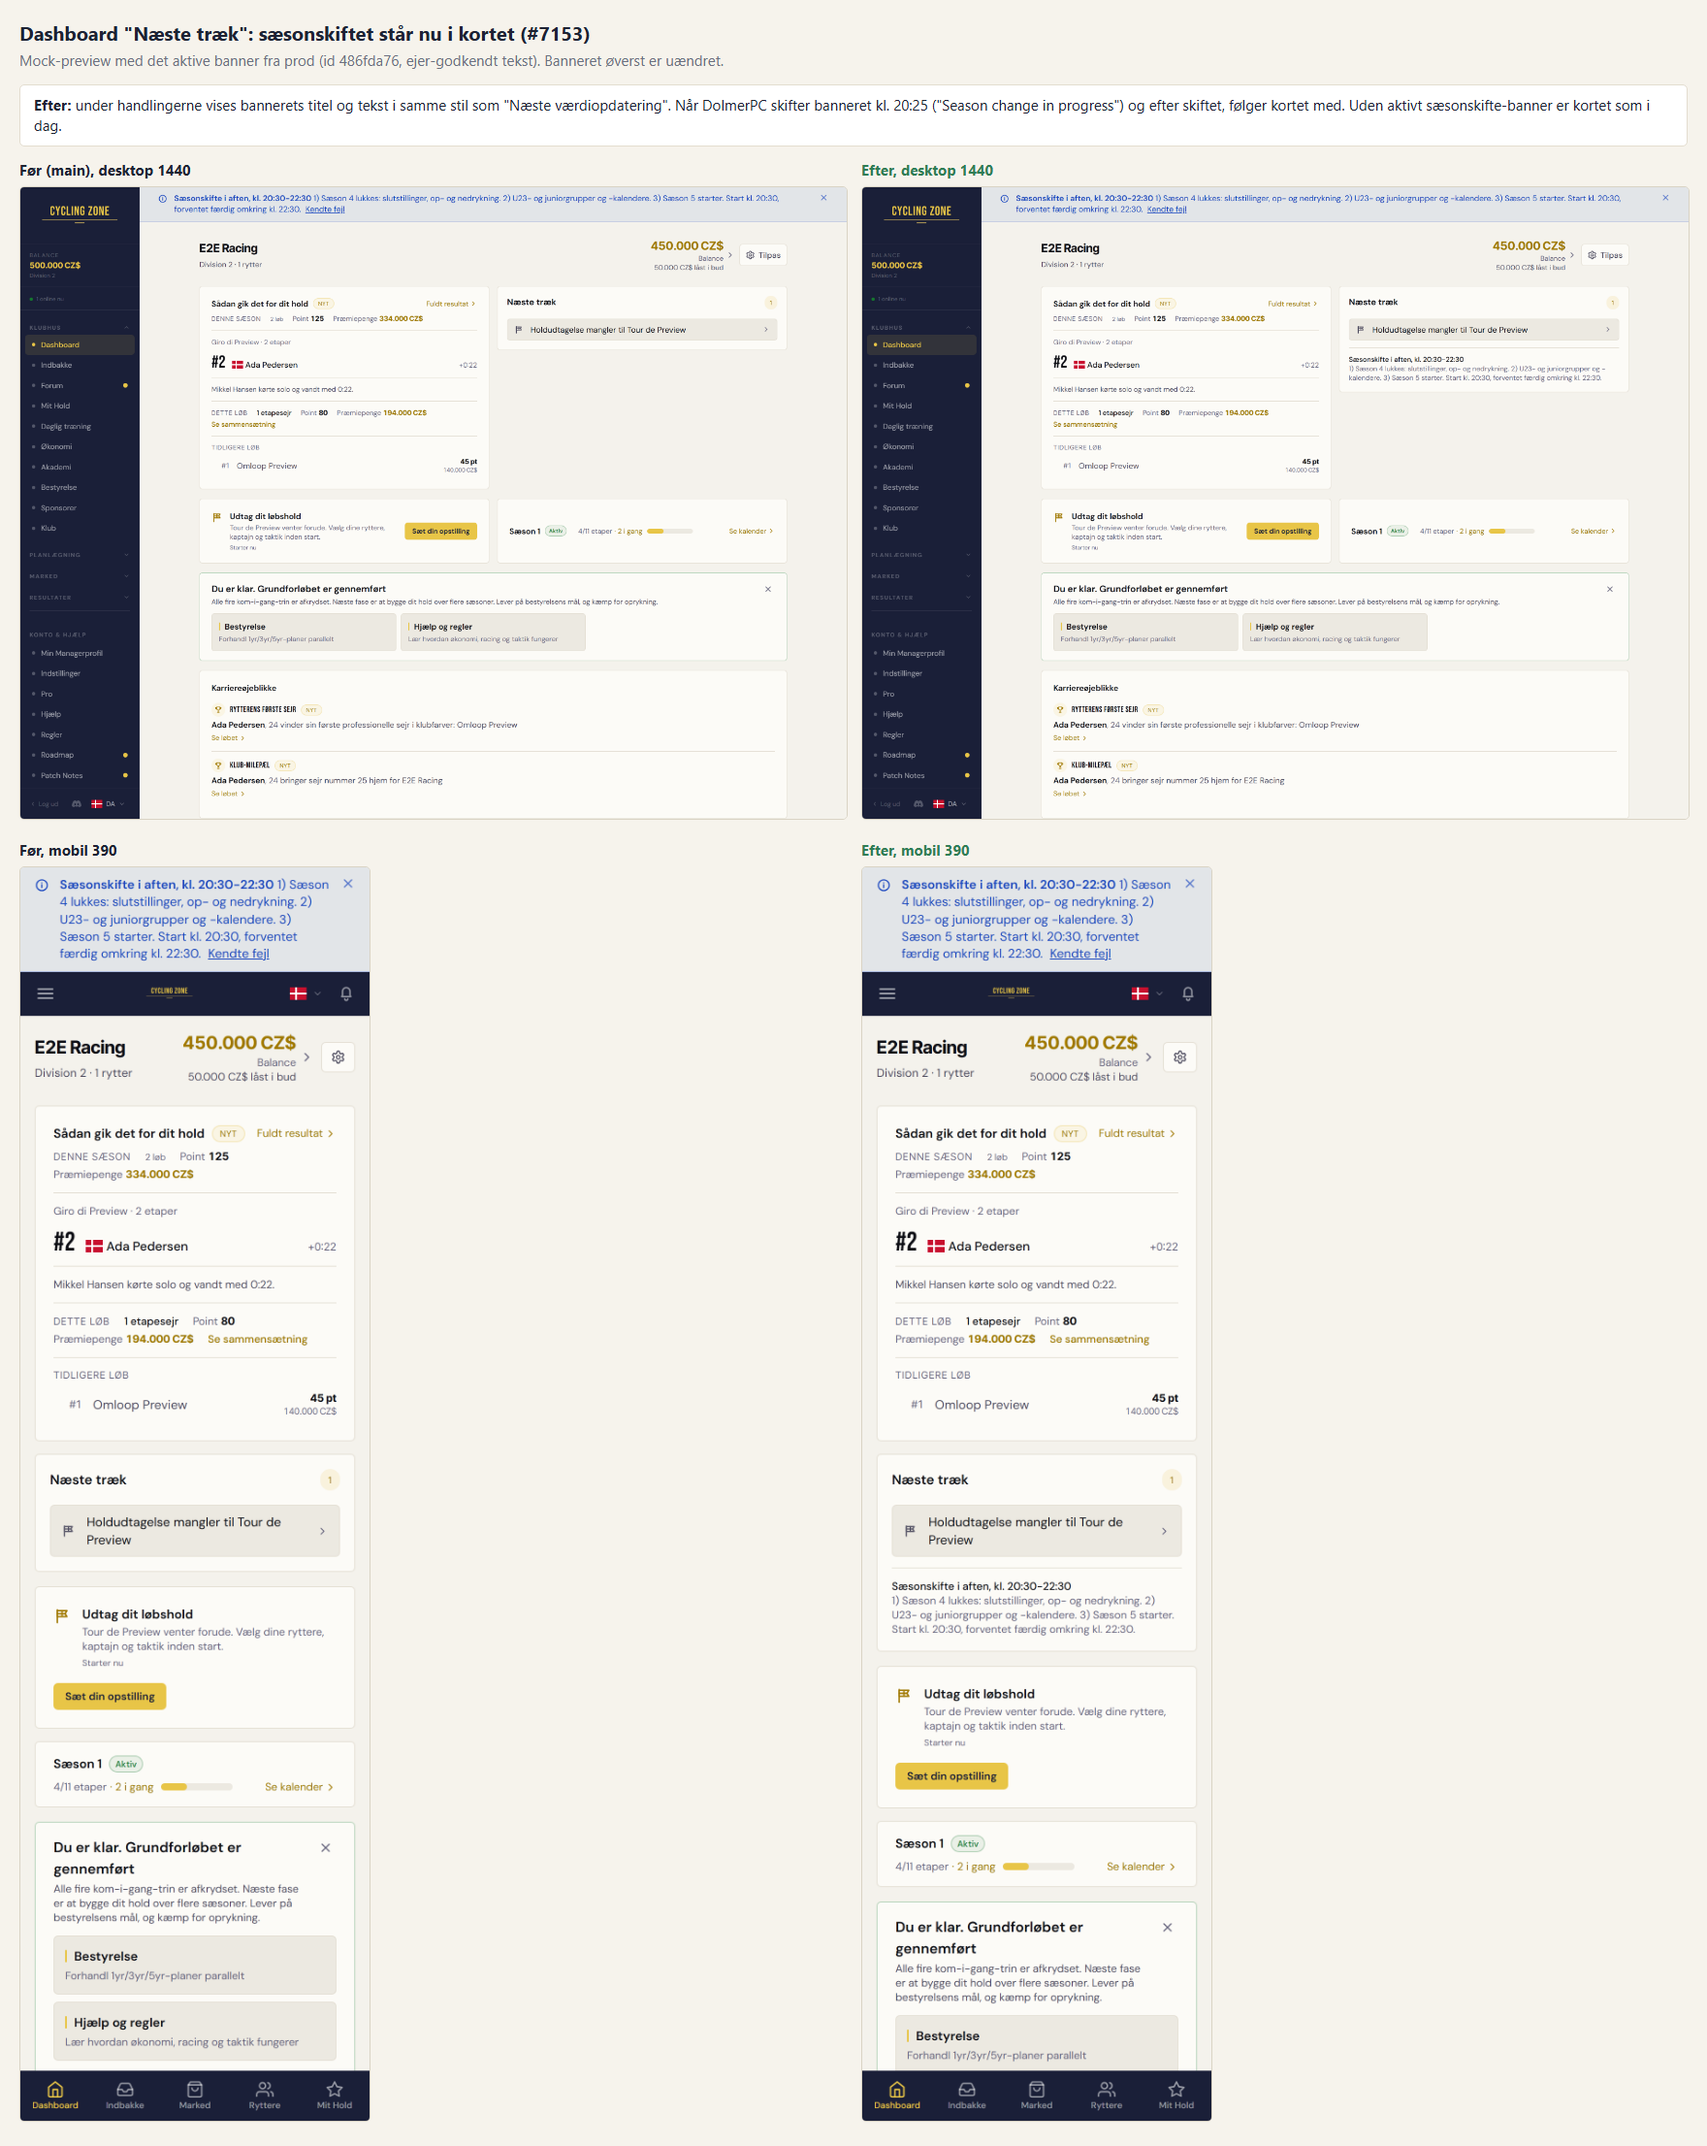
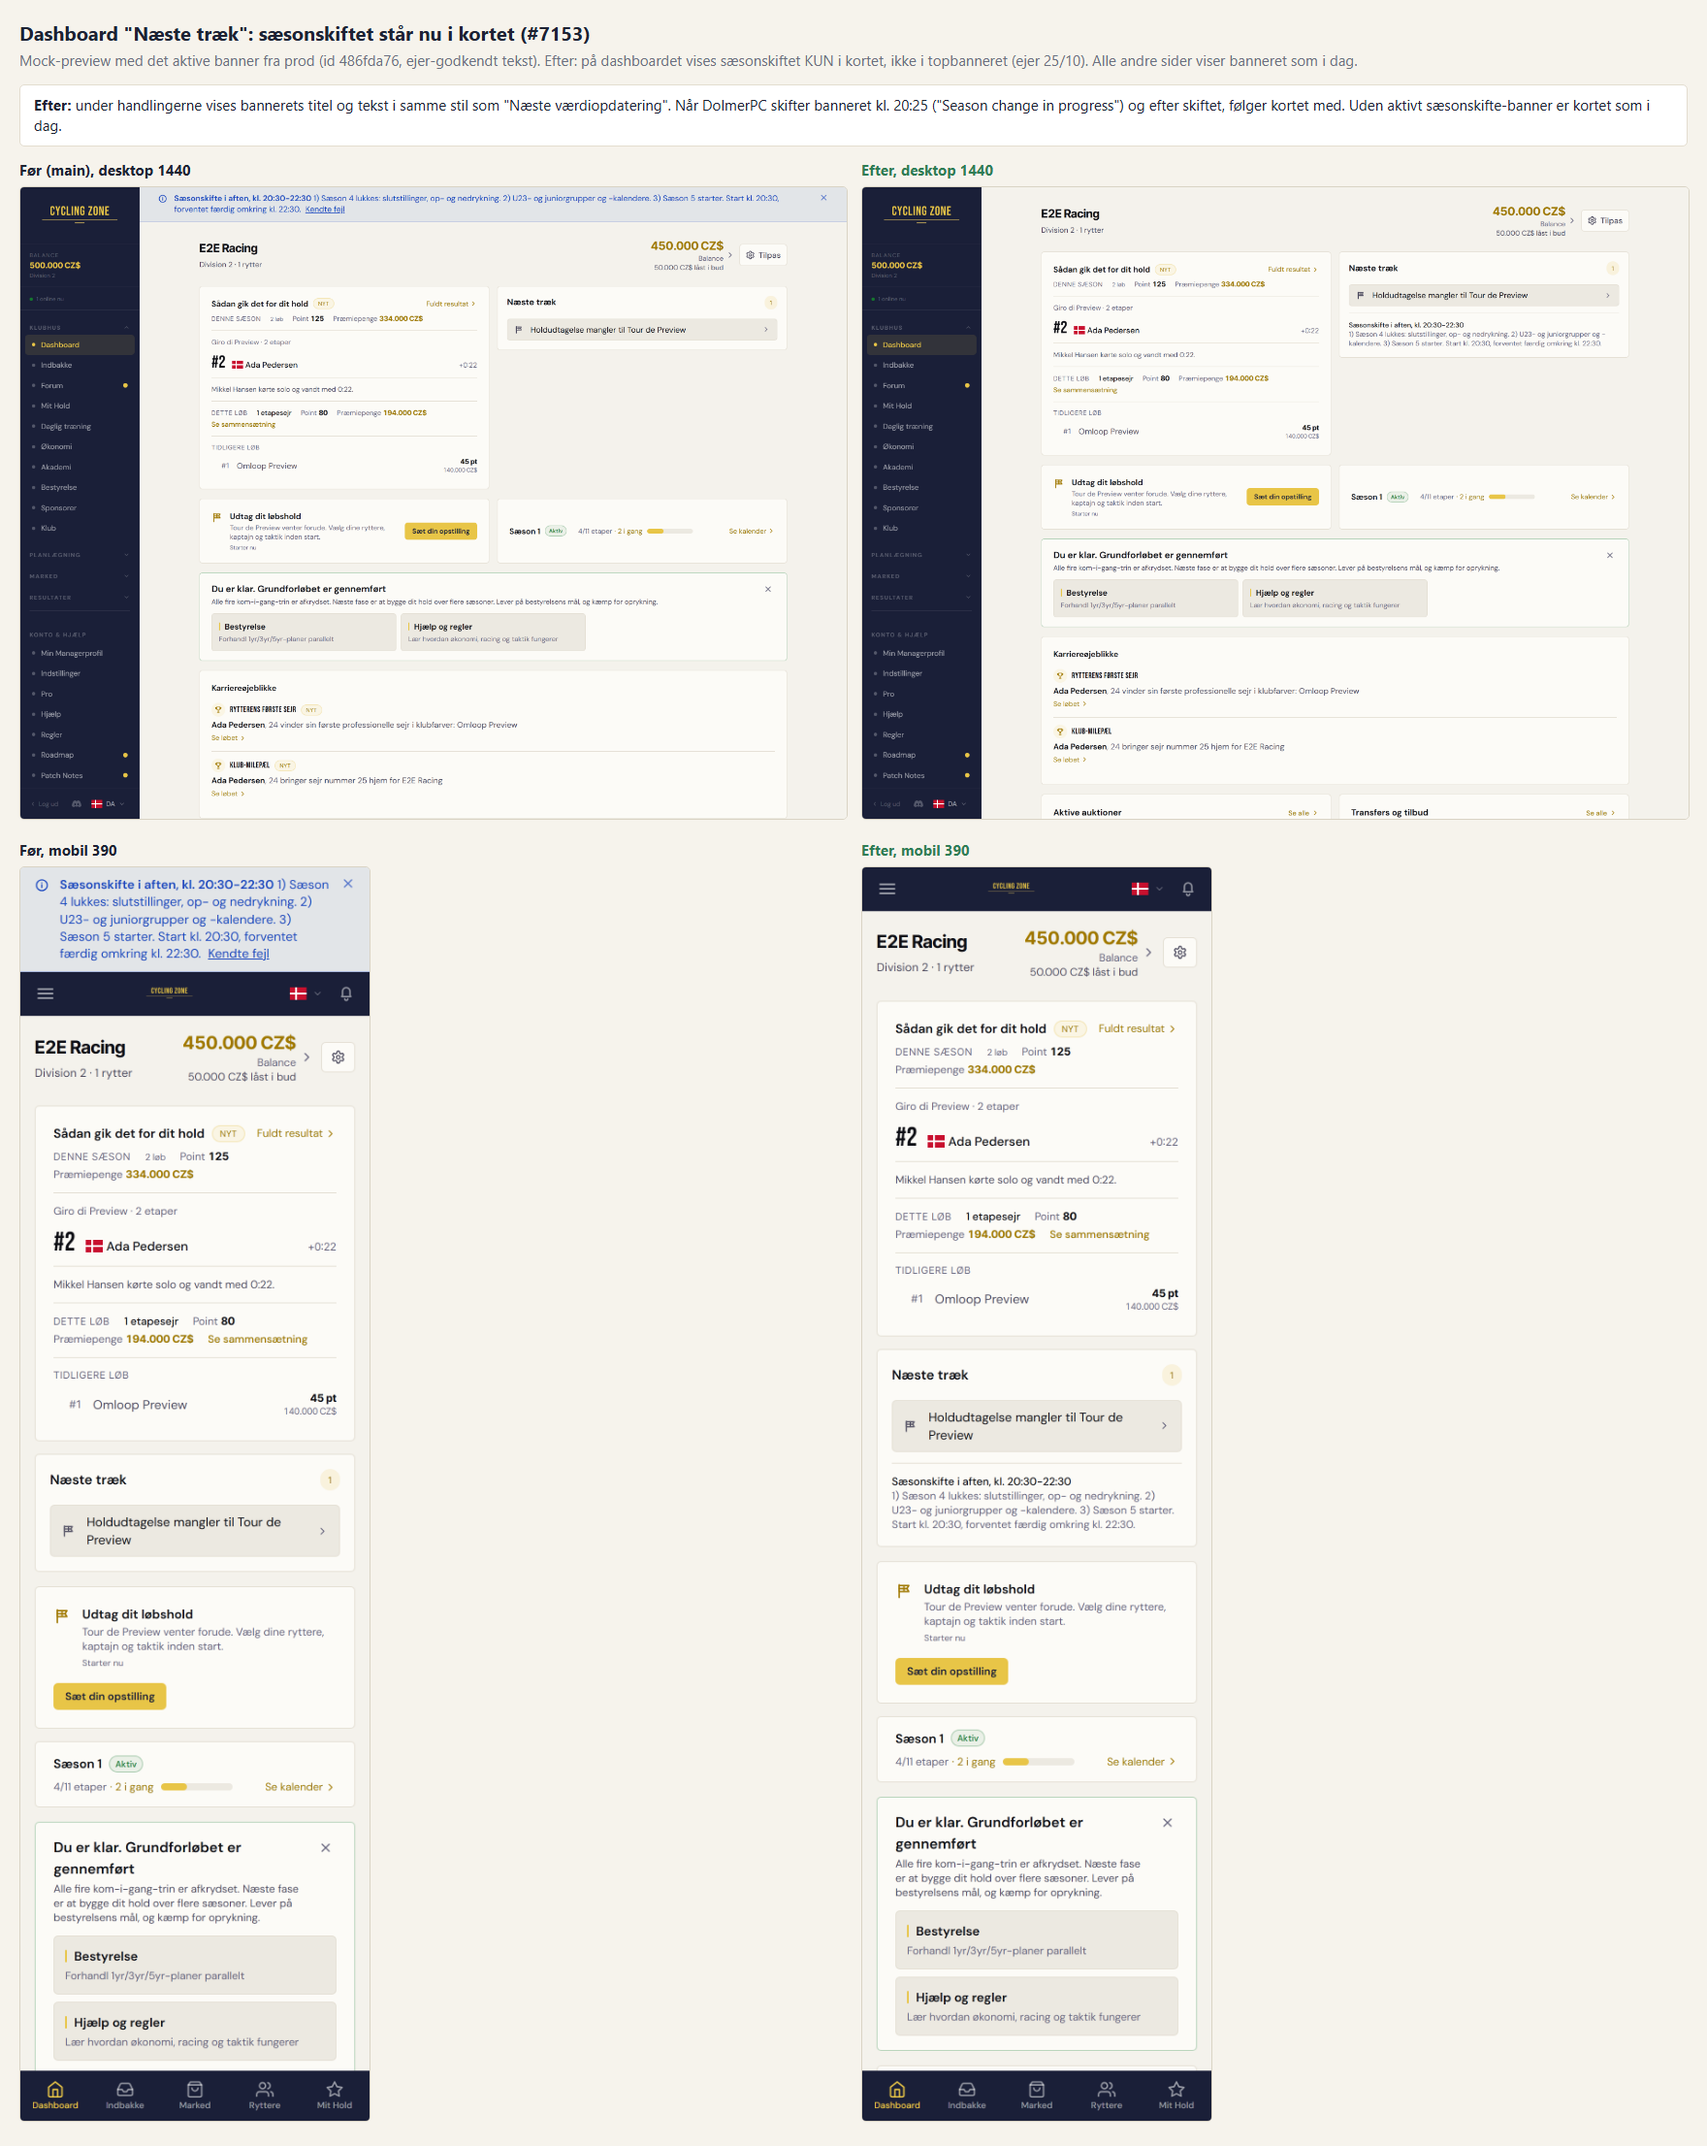
fix(dashboard): saesonskiftet kun i Naeste traek, ikke ogsaa i topbanneret paa dashboardet (ejer 25/10)
Refs #7153

diff --git a/frontend/src/lib/opsNotices.js b/frontend/src/lib/opsNotices.js
@@ -61,11 +61,20 @@ export const SEVERITY_META = {
 // change tonight, ...", "Season change in progress"). Ingen ny kolonne/migration.
 export const SEASON_CHANGE_TITLE_PREFIX = "season change";
 
+export function isSeasonChangeNotice(notice) {
+  return String(notice?.title_en || "").trim().toLowerCase().startsWith(SEASON_CHANGE_TITLE_PREFIX);
+}
+
 export function pickSeasonChangeNotice(notices) {
-  for (const n of notices || []) {
-    if (String(n?.title_en || "").trim().toLowerCase().startsWith(SEASON_CHANGE_TITLE_PREFIX)) return n;
-  }
+  for (const n of notices || []) if (isSeasonChangeNotice(n)) return n;
   return null;
+}
+
+// Ejer 25/10: på dashboardet står sæsonskiftet i "Næste træk", så topbanneret
+// viser det ikke dér (samme information to gange). Alle andre sider: uændret.
+export function bannerNoticesForPath(notices, pathname) {
+  const onDashboard = pathname === "/dashboard";
+  return (notices || []).filter((n) => !(onDashboard && isSeasonChangeNotice(n)));
 }
 
 // Vaelger EN/DA-copy efter spillerens sprog, med fallback til den anden hvis

diff --git a/frontend/src/lib/opsNotices.test.js b/frontend/src/lib/opsNotices.test.js
@@ -4,6 +4,7 @@ import {
   SEVERITY_META,
   pickNoticeCopy,
   pickSeasonChangeNotice,
+  bannerNoticesForPath,
   opsNoticeDismissKey,
   readOpsNoticeDismissed,
   writeOpsNoticeDismissed,
@@ -71,4 +72,14 @@ test("pickSeasonChangeNotice (#7153): finder sæsonskifte-banneret på den engel
   assert.equal(pickSeasonChangeNotice([{ id: "d", title_en: "  season CHANGE in progress" }])?.id, "d");
   assert.equal(pickSeasonChangeNotice([{ id: "e", title_en: "Race control" }]), null);
   assert.equal(pickSeasonChangeNotice(null), null);
+});
+
+test("bannerNoticesForPath (#7153): sæsonskiftet vises ikke i topbanneret på dashboardet, men på andre sider", () => {
+  const notices = [
+    { id: "s", title_en: "Season change tonight, 20:30-22:30" },
+    { id: "i", title_en: "Race delay on stage 3" },
+  ];
+  assert.deepEqual(bannerNoticesForPath(notices, "/dashboard").map((n) => n.id), ["i"]);
+  assert.deepEqual(bannerNoticesForPath(notices, "/training").map((n) => n.id), ["s", "i"]);
+  assert.deepEqual(bannerNoticesForPath(null, "/dashboard"), []);
 });

diff --git a/frontend/src/components/RaceControlBanner.jsx b/frontend/src/components/RaceControlBanner.jsx
@@ -1,7 +1,8 @@
 import { useEffect, useState } from "react";
-import { Link } from "react-router";
+import { Link, useLocation } from "react-router";
 import { useTranslation } from "react-i18next";
 import {
+  bannerNoticesForPath,
   fetchActiveOpsNotices,
   pickNoticeCopy,
   SEVERITY_META,
@@ -32,7 +33,9 @@ export default function RaceControlBanner() {
     return () => { active = false; };
   }, []);
 
-  const visible = notices.filter(
+  // #7153: sæsonskiftet står i "Næste træk" på dashboardet, ikke også her.
+  const { pathname } = useLocation();
+  const visible = bannerNoticesForPath(notices, pathname).filter(
     (n) => n.severity === "incident" || !readOpsNoticeDismissed(n.id)
   );
   void dismissTick;
